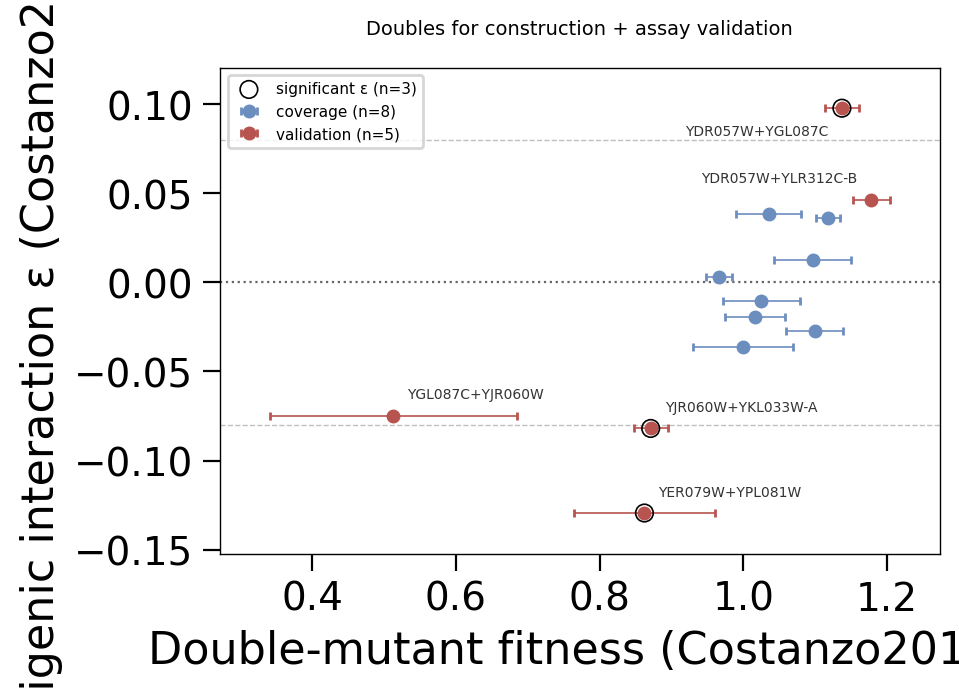
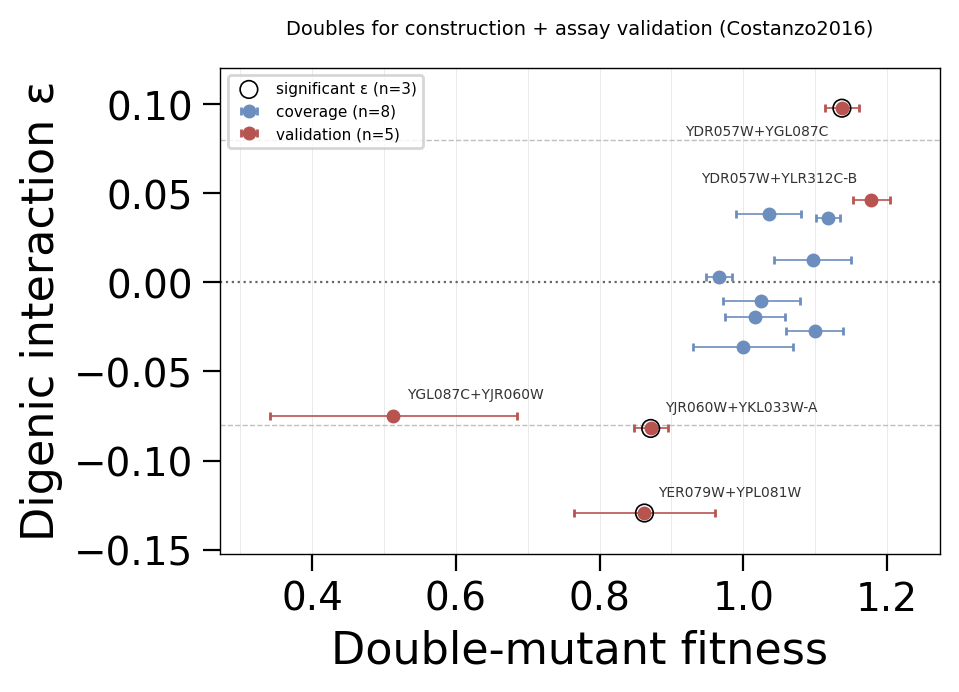
fix(010): scatter y-label no longer clipped; add tenth gridlines per figure standard
- move "(Costanzo2016)" from the axis labels into the title so the vertical
  y-label ("Digenic interaction ε") fits inside the axes height (was overrunning)
- add tenth gridlines on the DMF (0-1 metric) axis: line every 0.1, label every
  0.2, minor ticks hidden -- per the repo figure standard
- coverage stays palette blue, validation red, significant ring black; boxed,
  Arial 6pt, true-size SVG unchanged

diff --git a/experiments/010-kuzmin-tmi/scripts/construction_validation_doubles.py b/experiments/010-kuzmin-tmi/scripts/construction_validation_doubles.py
@@ -33,6 +33,7 @@ import matplotlib.pyplot as plt
 import numpy as np
 import pandas as pd
 from dotenv import load_dotenv
+from matplotlib.ticker import MultipleLocator
 
 from torchcell.datasets.scerevisiae.costanzo2016 import N_SAMPLES_DOUBLE_MUTANT
 from torchcell.utils import PLOT_PALETTE, PANEL_WIDTHS_MM, mm_to_in, savefig_true_size_svg
@@ -140,9 +141,14 @@ def plot(sel: pd.DataFrame) -> None:
     for thr in (EPS_THRESH, -EPS_THRESH):
         ax.axhline(thr, color="0.75", ls="--", lw=0.5)
     ax.margins(x=0.08, y=0.10)  # room so labels/rings do not clip the frame
-    ax.set_xlabel("Double-mutant fitness (Costanzo2016)")
-    ax.set_ylabel("Digenic interaction ε (Costanzo2016)")
-    ax.set_title("Doubles for construction + assay validation", fontsize=7)
+    # tenth gridlines on the DMF (0-1 metric) axis: line every 0.1, label every 0.2
+    ax.xaxis.set_major_locator(MultipleLocator(0.2))
+    ax.xaxis.set_minor_locator(MultipleLocator(0.1))
+    ax.tick_params(which="minor", length=0)
+    ax.grid(which="both", axis="x", lw=0.3, color="0.9", zorder=0)
+    ax.set_xlabel("Double-mutant fitness")
+    ax.set_ylabel("Digenic interaction ε")
+    ax.set_title("Doubles for construction + assay validation (Costanzo2016)", fontsize=7)
     ax.legend(frameon=True, fontsize=5.5, loc="upper left")
     for sp in ("top", "right", "left", "bottom"):
         ax.spines[sp].set_visible(True)